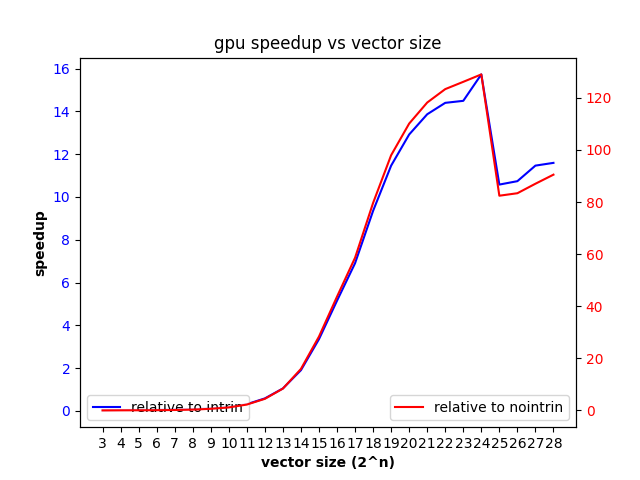
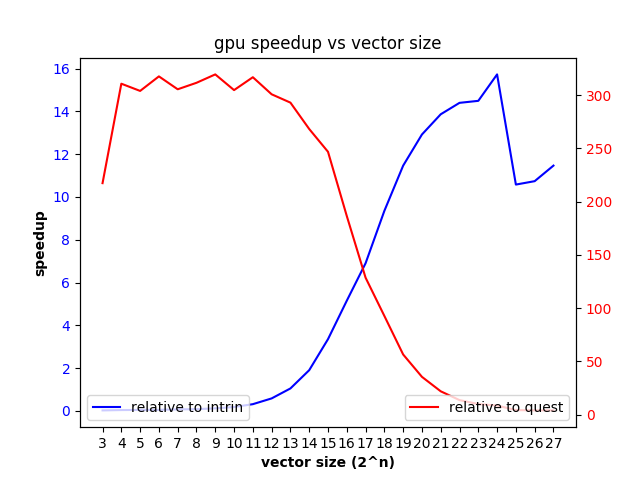
parser for quest

diff --git a/timeparser.py b/timeparser.py
@@ -83,27 +83,36 @@ def get_data_quest(infile):
     return data
 
 def get_data(projectq_infile, quest_infile):
-    projectq = get_data(projectq_infile)
-    quest = get_data(quest_infile)
+    projectq = get_data_projectq(projectq_infile)
+    quest = get_data_quest(quest_infile)
     for d1 in projectq:
         for d2 in quest:
-            if d1['num_qubits'] == d2['num_qubits'] and d1['qids_list'] == d2['qids_list']
+            if d1['num_qubits'] == d2['num_qubits'] and d1['qids_list'] == d2['qids_list']:
                 d1['quest_gpu'] = d2['quest_gpu']
     return projectq
 
 def plot_gpu_speedup_vs_vec_size_line():
     nointrin_speedup = []
     intrin_speedup = []
+    quest_speedup = []
     for iter in range(NUM_ITER):
         nointrin_speedup.append([])
         intrin_speedup.append([])
-        data = get_data('data/iterations/graph_data_state_vec_size_iter_'+str(iter)+'.txt')
+        quest_speedup.append([])
+        data = get_data('data/iterations/graph_data_state_vec_size_iter_'+str(iter)+'.txt', 'data/quest_graph_data_state_vec_size.txt')
         qs = []
-
+        #print(data)
         for d in data:
+            if 'quest_gpu' not in d:
+                print(d)
+                continue
             qs.append(d['num_qubits'])
             nointrin_speedup[-1].append(d['nointrin']/d['gpu']) #speedup is inverse of time
             intrin_speedup[-1].append(d['intrin']/d['gpu']) #speedup is inverse of time
+            quest_speedup[-1].append(d['quest_gpu']/d['gpu'])
+
+
+
 
     #final_nointrin_speedup = (*map(mean,zip(*nointrin_speedup)))
     #final_intrin_speedup = (*map(mean,zip(*intrin_speedup)))
@@ -111,6 +120,7 @@ def plot_gpu_speedup_vs_vec_size_line():
     #final_intrin_speedup = np.mean(intrin_speedup, axis=0)
     final_nointrin_speedup = stats.hmean(nointrin_speedup, axis=0)
     final_intrin_speedup = stats.hmean(intrin_speedup, axis=0)
+    final_quest_speedup = stats.hmean(quest_speedup, axis=0)
 
     #Create figure
     fig, ax1 = plt.subplots()
@@ -124,7 +134,7 @@ def plot_gpu_speedup_vs_vec_size_line():
     ax2 = ax1.twinx()
     ax1.plot(qs, final_intrin_speedup, 'b', label='relative to intrin')
     ax1.tick_params(axis='y', labelcolor='b')
-    ax2.plot(qs, final_nointrin_speedup, 'r', label='relative to nointrin')
+    ax2.plot(qs, final_quest_speedup, 'r', label='relative to quest')
     ax2.tick_params(axis='y', labelcolor='r')
     ax1.legend(loc='lower left')
     ax2.legend(loc='lower right')
@@ -419,14 +429,14 @@ def main():
 
     #Analysis of the effect of vector size
     plot_gpu_speedup_vs_vec_size_line()
-    plot_time_vs_vec_size_bar()
+    # plot_time_vs_vec_size_bar()
 
-    #Analysis of the effect of the operator matrix size (aka number of quibits operated on)
-    plot_gpu_speedup_vs_operator_size_line()
+    # #Analysis of the effect of the operator matrix size (aka number of quibits operated on)
+    # plot_gpu_speedup_vs_operator_size_line()
 
-    #Analysis of the effect of the magnitude of the qubit ids
-    plot_gpu_speedup_vs_qubit_magnitude_line()
-    plot_gpu_speedup_vs_qubit_spacing()
+    # #Analysis of the effect of the magnitude of the qubit ids
+    # plot_gpu_speedup_vs_qubit_magnitude_line()
+    # plot_gpu_speedup_vs_qubit_spacing()
 
 if __name__ == "__main__":
     main()
